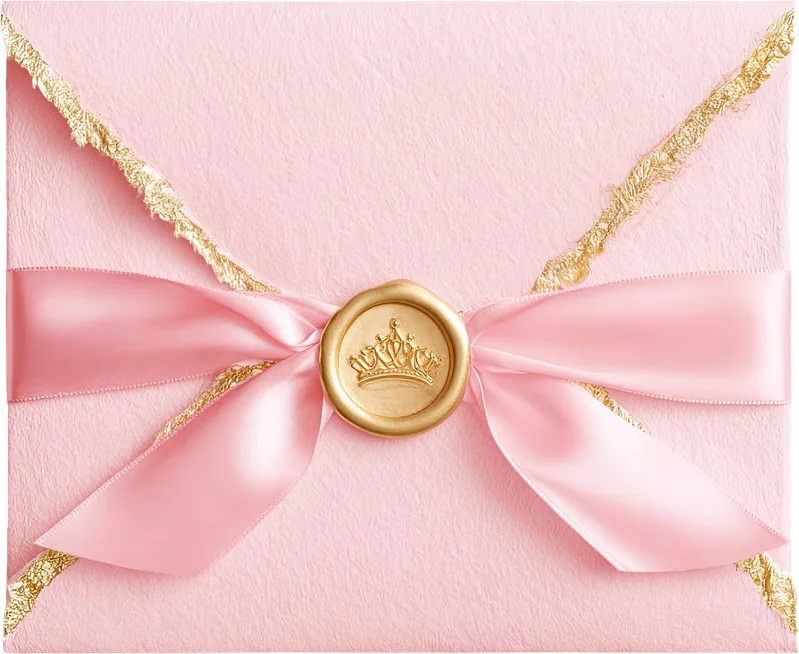
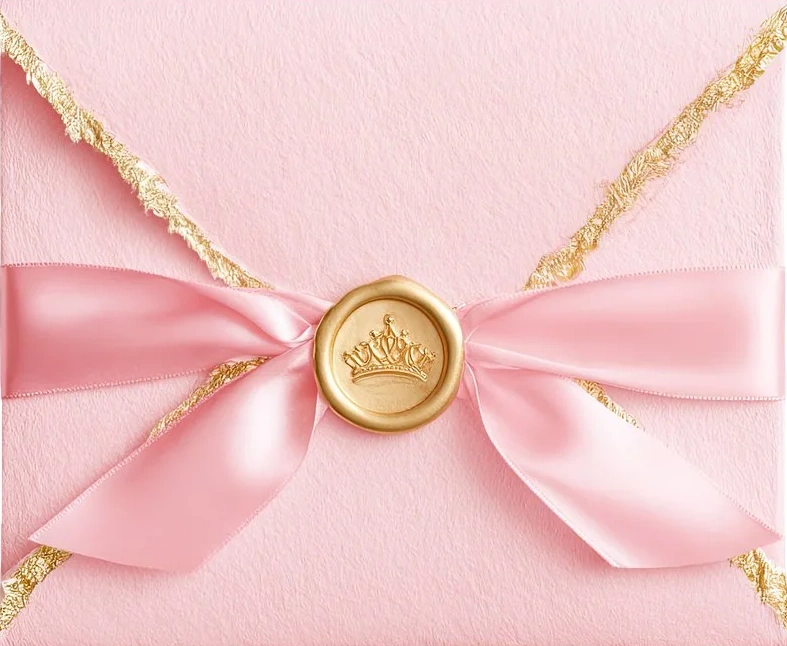
style(blush-princess): enhance depth with soft perimeter envelope shadow, background blur, and high-contrast language selector

diff --git a/src/components/templates/BlushPrincessTemplate.tsx b/src/components/templates/BlushPrincessTemplate.tsx
@@ -445,12 +445,16 @@ export default function BlushPrincessTemplate({
             isEnvelopeExiting ? "pointer-events-none" : ""
           }`}
         >
-          {/* Fondo floral acuarela (el mismo motivo de la invitación) */}
+          {/* Fondo floral acuarela con filtro de profundidad */}
           <div
             aria-hidden="true"
             className={`absolute inset-0 bg-[#FBF1EA] bg-[url('/assets/template-blush/fondo-floral-ancho.webp')] bg-cover bg-center transition-opacity duration-200 ${
               isEnvelopeFading ? "opacity-0" : "opacity-100"
             }`}
+            style={{
+              filter: "blur(1.5px) brightness(0.95)",
+              transform: "scale(1.02)",
+            }}
           />
 
           {/* Grupo de la intro: sale en cortina al abrir */}
@@ -481,7 +485,7 @@ export default function BlushPrincessTemplate({
             {/* Escenario del sobre */}
             <div
               id="envelopeContainer"
-              className={`relative w-[min(94vw,430px)] sm:w-[500px] aspect-[799/654] cursor-pointer ${
+              className={`relative w-[min(94vw,430px)] sm:w-[500px] aspect-[787/646] cursor-pointer ${
                 isEnvelopeOpen ? "animate-envelope-pulse" : ""
               }`}
             >
@@ -497,7 +501,10 @@ export default function BlushPrincessTemplate({
                 <img
                   src={BLUSH_ASSETS.envelopeOpen}
                   alt="Sobre abierto"
-                  className="absolute inset-0 w-full h-full object-contain drop-shadow-2xl"
+                  className="absolute inset-0 w-full h-full object-contain"
+                  style={{
+                    filter: "drop-shadow(0 15px 35px rgba(0, 0, 0, 0.25)) drop-shadow(0 5px 15px rgba(0, 0, 0, 0.15))",
+                  }}
                 />
                 {/* Texto impreso sobre la carta del arte (zona medida) */}
                 <div
@@ -517,9 +524,9 @@ export default function BlushPrincessTemplate({
                 </div>
               </div>
 
-              {/* Sobre CERRADO: encima mientras está cerrado */}
+              {/* Sobre CERRADO: encima mientras está cerrado con relieve perimetral y esquinas redondeadas */}
               <div
-                className={`absolute inset-0 z-40 pointer-events-none drop-shadow-xl transition-opacity duration-200 ${
+                className={`absolute inset-0 z-40 pointer-events-none transition-opacity duration-200 ${
                   isEnvelopeOpen ? "opacity-0" : "opacity-100"
                 }`}
               >
@@ -527,7 +534,10 @@ export default function BlushPrincessTemplate({
                 <img
                   src={BLUSH_ASSETS.envelopeClosed}
                   alt="Sobre Cerrado"
-                  className="w-full h-full object-contain"
+                  className="w-full h-full object-cover rounded-[4px]"
+                  style={{
+                    boxShadow: "0 15px 35px rgba(0, 0, 0, 0.25), 0 5px 15px rgba(0, 0, 0, 0.15)",
+                  }}
                 />
                 {/* Tiara dorada descansando sobre el sobre (como en Canva) */}
                 {/* eslint-disable-next-line @next/next/no-img-element */}
@@ -564,14 +574,24 @@ export default function BlushPrincessTemplate({
               )}
             </div>
 
-            {/* Selector de idioma / pista de toque */}
+            {/* Selector de idioma / pista de toque con degradado de legibilidad */}
             {isBilingual ? (
               <div
-                className={`mt-7 sm:mt-9 flex flex-col items-center gap-3 z-30 transition-opacity duration-300 ${
+                className={`mt-6 sm:mt-8 flex flex-col items-center gap-3 z-30 transition-opacity duration-300 w-full max-w-lg mx-auto rounded-2xl ${
                   isEnvelopeOpen ? "opacity-0 pointer-events-none" : "opacity-100"
                 }`}
+                style={{
+                  background: "linear-gradient(to top, rgba(255, 255, 255, 0.85) 0%, rgba(255, 255, 255, 0) 100%)",
+                  padding: "20px 0",
+                }}
               >
-                <p className="font-serif-roman text-[11px] sm:text-xs tracking-[0.3em] uppercase text-[#4A3436] font-semibold">
+                <p
+                  className="font-serif-roman text-[11px] sm:text-xs tracking-[0.25em] uppercase font-semibold"
+                  style={{
+                    color: "#4a3728",
+                    fontWeight: 600,
+                  }}
+                >
                   Choose language / Elige tu idioma
                 </p>
                 <div className="flex items-center justify-center gap-3 sm:gap-5">
@@ -581,7 +601,14 @@ export default function BlushPrincessTemplate({
                       e.stopPropagation();
                       handleOpenEnvelope("en");
                     }}
-                    className="inline-flex items-center justify-center w-36 sm:w-44 h-12 sm:h-14 rounded-full bg-gradient-to-b from-[#DCC084] via-[#B08D3C] to-[#96762E] text-white font-serif-roman text-xs sm:text-sm tracking-[0.25em] uppercase font-bold shadow-lg transition-transform duration-300 hover:scale-105 active:scale-95 cursor-pointer"
+                    className="inline-flex items-center justify-center w-36 sm:w-44 h-12 sm:h-14 rounded-full font-serif-roman text-xs sm:text-sm uppercase transition-transform duration-300 hover:scale-105 active:scale-95 cursor-pointer shadow-md"
+                    style={{
+                      background: "#a37c3f",
+                      color: "#ffffff",
+                      textShadow: "0 1px 2px rgba(0, 0, 0, 0.4)",
+                      fontWeight: "bold",
+                      letterSpacing: "1px",
+                    }}
                   >
                     English
                   </button>
@@ -591,7 +618,14 @@ export default function BlushPrincessTemplate({
                       e.stopPropagation();
                       handleOpenEnvelope("es");
                     }}
-                    className="inline-flex items-center justify-center w-36 sm:w-44 h-12 sm:h-14 rounded-full bg-gradient-to-b from-[#DCC084] via-[#B08D3C] to-[#96762E] text-white font-serif-roman text-xs sm:text-sm tracking-[0.25em] uppercase font-bold shadow-lg transition-transform duration-300 hover:scale-105 active:scale-95 cursor-pointer"
+                    className="inline-flex items-center justify-center w-36 sm:w-44 h-12 sm:h-14 rounded-full font-serif-roman text-xs sm:text-sm uppercase transition-transform duration-300 hover:scale-105 active:scale-95 cursor-pointer shadow-md"
+                    style={{
+                      background: "#a37c3f",
+                      color: "#ffffff",
+                      textShadow: "0 1px 2px rgba(0, 0, 0, 0.4)",
+                      fontWeight: "bold",
+                      letterSpacing: "1px",
+                    }}
                   >
                     Español
                   </button>
@@ -603,16 +637,26 @@ export default function BlushPrincessTemplate({
                   e.stopPropagation();
                   handleOpenEnvelope(isEn ? "en" : "es");
                 }}
-                className={`mt-7 sm:mt-9 flex flex-col items-center justify-center z-30 cursor-pointer group transition-all duration-300 hover:scale-105 active:scale-95 ${
+                className={`mt-6 sm:mt-8 flex flex-col items-center justify-center z-30 cursor-pointer group transition-all duration-300 hover:scale-105 active:scale-95 w-full max-w-lg mx-auto rounded-2xl ${
                   isEnvelopeOpen ? "opacity-0 pointer-events-none" : "opacity-100"
                 }`}
+                style={{
+                  background: "linear-gradient(to top, rgba(255, 255, 255, 0.85) 0%, rgba(255, 255, 255, 0) 100%)",
+                  padding: "16px 0",
+                }}
               >
-                <p className="font-serif-roman text-xs sm:text-sm tracking-[0.25em] uppercase text-[#9D2C4A] font-semibold drop-shadow-sm flex items-center gap-2">
+                <p
+                  className="font-serif-roman text-xs sm:text-sm tracking-[0.25em] uppercase font-bold flex items-center gap-2"
+                  style={{
+                    color: "#4a3728",
+                    fontWeight: 600,
+                  }}
+                >
                   <span className="inline-block animate-bounce text-sm">✨</span>
                   {isEn ? "Tap the envelope to open" : "Toca el sobre para abrir"}
                   <span className="inline-block animate-bounce text-sm">✨</span>
                 </p>
-                <div className="w-16 h-0.5 bg-[#B08D3C]/60 mt-1.5 transition-all duration-300 group-hover:w-28 group-hover:bg-[#B08D3C]" />
+                <div className="w-16 h-0.5 bg-[#a37c3f]/80 mt-1.5 transition-all duration-300 group-hover:w-28 group-hover:bg-[#a37c3f]" />
               </div>
             )}
           </div>
